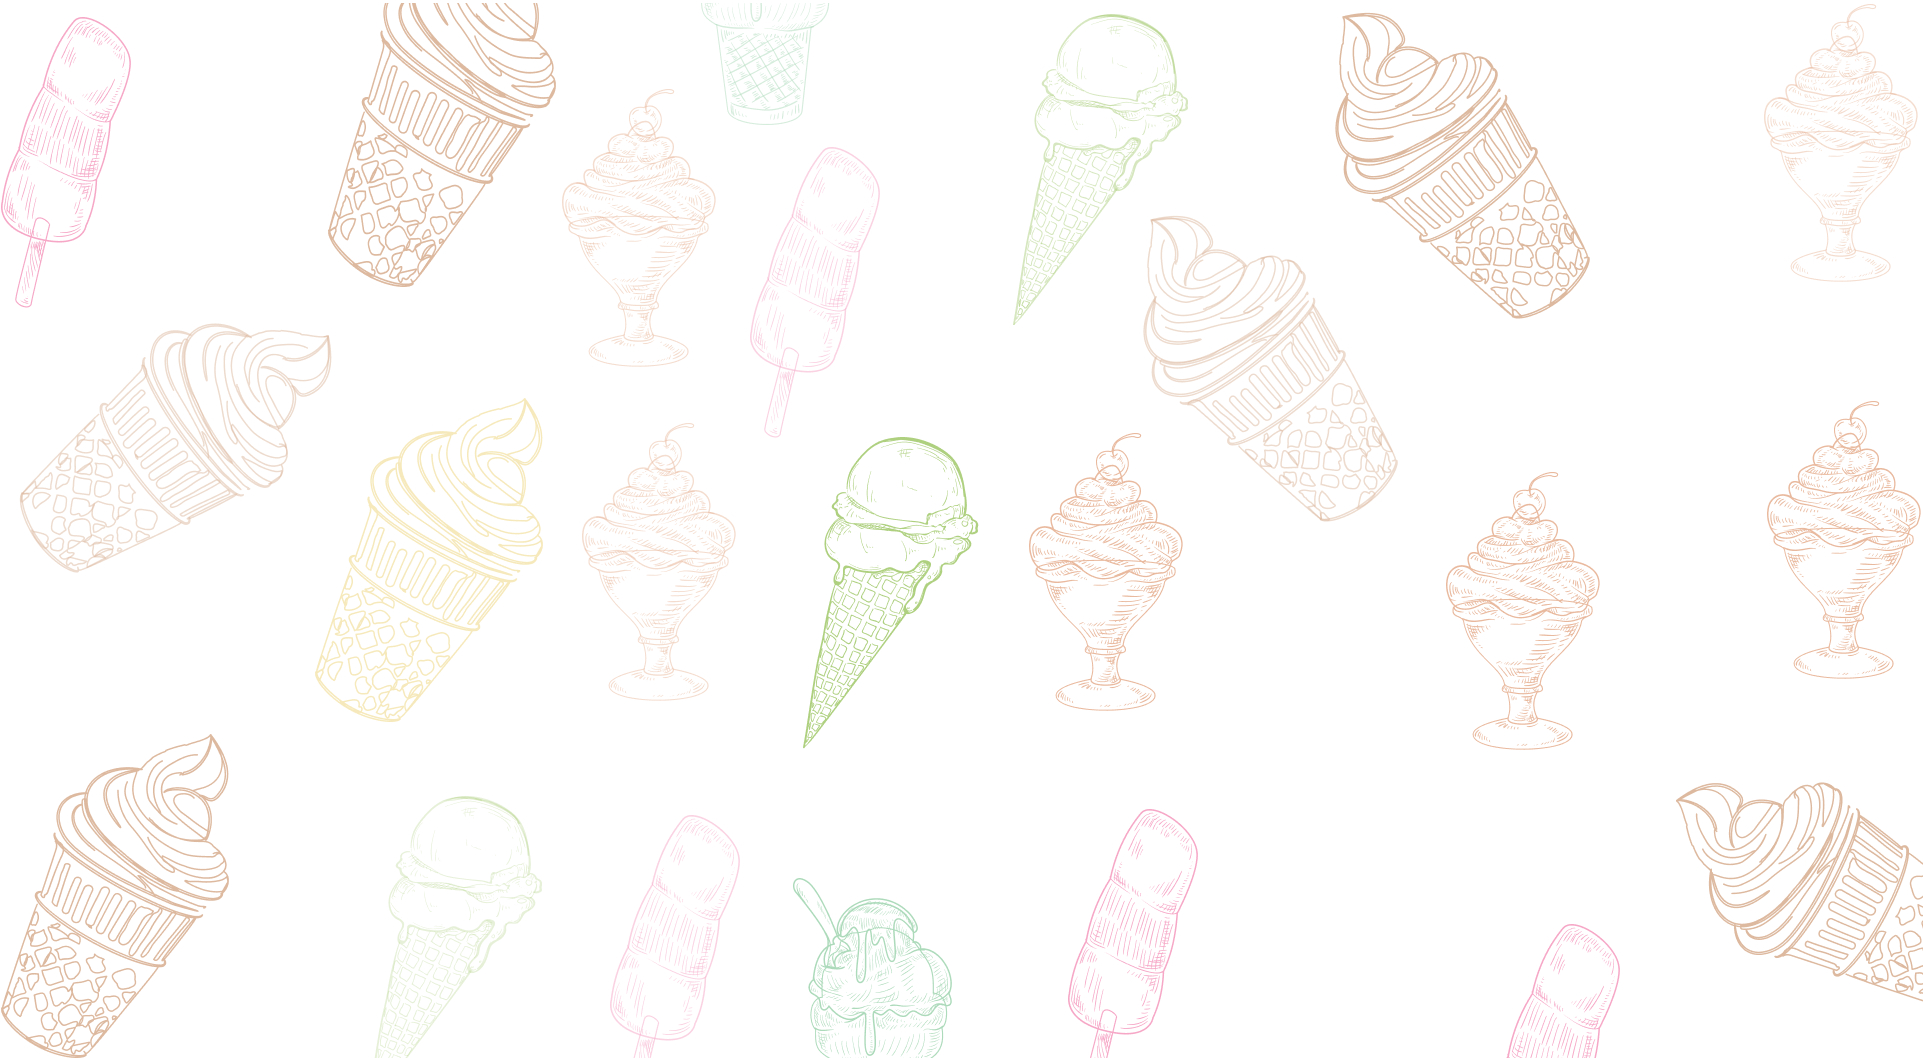
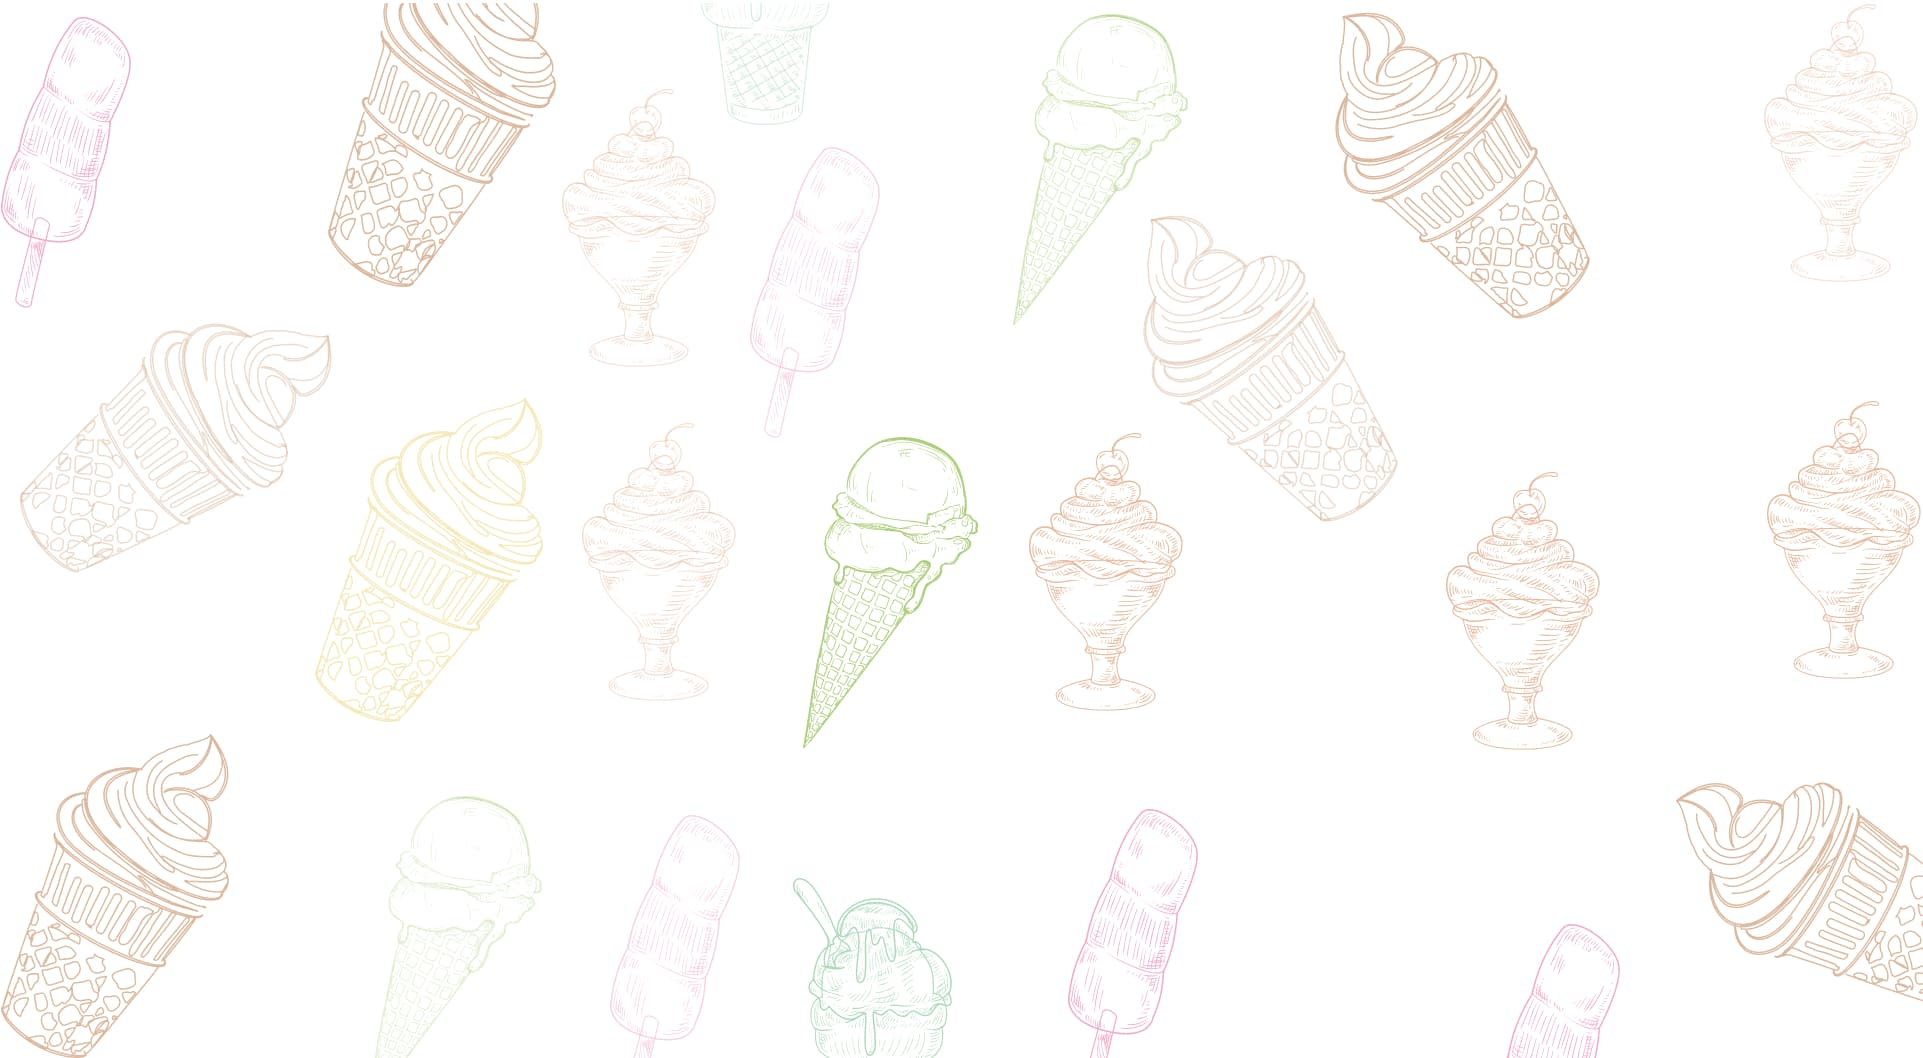
Fix modal + dotted menu + new BG

diff --git a/src/sass/_extras.scss b/src/sass/_extras.scss
@@ -15,6 +15,13 @@
   border: 2px solid $black-text-color;
 
   animation: extras__scroll-to-top 1s linear infinite both;
+  transition: color $timing-function $duratoin,
+    background $timing-function $duratoin;
+
+  &:hover {
+    color: $white-text-color;
+    background: $hover-green-color;
+  }
 }
 
 @keyframes extras__scroll-to-top {
@@ -63,5 +70,71 @@
   }
   100% {
     background: hsla(294, 100%, 60%, 0.5);
+  }
+}
+
+.side-dotted-menu {
+  position: fixed;
+  right: 20px;
+  top: 50%;
+  transform: translateY(-50%);
+
+  display: flex;
+  flex-direction: column;
+  align-items: flex-end;
+  gap: 35px;
+  font-size: 14px;
+  font-family: $secondary-ff;
+
+  white-space: pre-wrap;
+
+  word-break: normal;
+  word-wrap: normal;
+  overflow-wrap: normal;
+
+  line-height: 1.5;
+
+  color: $black-text-color;
+
+  &__item {
+    width: 25px;
+    height: 25px;
+    border: 2px solid $black-text-color;
+    background-color: $accent-color;
+    border-radius: 50%;
+
+    animation: extras__scroll-to-top 1s linear infinite both;
+
+    transition: width 400ms ease-out;
+
+    // font-size 200ms ease-in-out,
+    display: flex;
+    align-items: center;
+    justify-content: center;
+
+    & > p {
+      // transform: translateX(50%);
+      white-space: nowrap;
+      opacity: 0;
+      transform: scale(0);
+
+      transition: opacity 400ms ease-out 200ms, background 400ms ease-out;
+    }
+
+    &:hover {
+      & > p {
+        transform: scale(1);
+        color: $white-text-color;
+
+        opacity: 1;
+      }
+      background: $hover-green-color;
+      border-radius: 10px 100px / 120px;
+      padding: 10px;
+      width: 100%;
+      height: 25px;
+      max-height: 50px;
+      font-size: 16px;
+    }
   }
 }

diff --git a/src/partials/modal.html b/src/partials/modal.html
@@ -242,7 +242,7 @@
   </button>
 
   <div class="modal__container" role="group">
-    <p class="modal__title">Chololate icecream</p>
+    <p class="modal__title">Chololate Ice Cream</p>
 
     <ul class="modal__items">
       <li class="modal__item">
@@ -355,7 +355,7 @@
   </button>
 
   <div class="modal__container" role="group">
-    <p class="modal__title">Chololate ice coffee</p>
+    <p class="modal__title">Chololate Ice Coffee</p>
 
     <ul class="modal__items">
       <li class="modal__item">
@@ -468,18 +468,18 @@
   </button>
 
   <div class="modal__container" role="group">
-    <p class="modal__title">Chololate icecream</p>
+    <p class="modal__title">milkShake</p>
 
     <ul class="modal__items">
       <li class="modal__item">
         <img
           class="modal__img"
           srcset="
-            ./images/modal/modal-buyNow-iceCream.png    1x,
-            ./images/modal/modal-buyNow-iceCream@2x.png 2x
+            ./images/modal/modal-buyNow-milkshake.png    1x,
+            ./images/modal/modal-buyNow-milkshake@2x.png 2x
           "
-          src="./images/modal/modal-buyNow-iceCream.png"
-          alt="ice cream"
+          src="./images/modal/modal-buyNow-milkshake.png"
+          alt="milkshake"
         />
         <span class="modal__circl modal__milkShake"></span>
       </li>

diff --git a/src/js/extras.js b/src/js/extras.js
@@ -8,11 +8,11 @@ AOS.init();
 
 // Add to all images lazy loading and fade in on scroll
 (function () {
-  document.querySelectorAll('.img-animation').forEach(img => {
+  document.querySelectorAll('img').forEach(img => {
     img.setAttribute('loading', 'lazy');
-    img.setAttribute('data-aos', 'fade-in');
-    img.setAttribute('data-aos-delay', '200');
-    img.setAttribute('data-aos-duration', '500');
+    // img.setAttribute('data-aos', 'fade-in');
+    // img.setAttribute('data-aos-delay', '200');
+    // img.setAttribute('data-aos-duration', '500');
     // img.setAttribute('data-aos-placement', 'bottom-center');
   });
 })();

diff --git a/src/partials/extras.html b/src/partials/extras.html
@@ -1,0 +1,7 @@
+<div class="side-dotted-menu">
+  <button class="side-dotted-menu__item"><p>How it’s made?</p></button
+  ><button class="side-dotted-menu__item"><p>Our products</p></button
+  ><button class="side-dotted-menu__item"><p>Contact</p></button>
+  <!-- <button class="side-dotted-menu__item"><p>dsfsdfsdf</p></button
+  ><button class="side-dotted-menu__item"><p>sdfsdf</p></button> -->
+</div>

diff --git a/src/index.html b/src/index.html
@@ -51,6 +51,7 @@
     <include src="./partials/footer.html"></include>
     <!-- Кирилл -->
     <include src="./partials/modal.html"></include>
+    <include src="./partials/extras.html"></include>
     <script src="./js/modal.js"></script>
     <script src="https://cdn.jsdelivr.net/npm/swiper@8/swiper-bundle.min.js"></script>
     <!-- Олег -->

diff --git a/src/sass/_common.scss b/src/sass/_common.scss
@@ -4,7 +4,7 @@ body {
   font-family: $main-ff;
   // background-color: $main-bg-color;
 
-  background: url(../images/iceCreamBG1.jpg) repeat center center fixed;
+  background: url(../images/iceCreamBG1.jpg) repeat-y center center fixed;
   -webkit-background-size: cover;
   -moz-background-size: cover;
   -o-background-size: cover;
